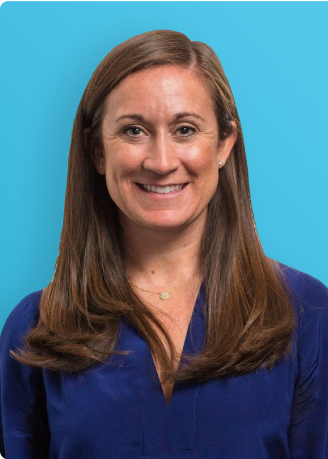
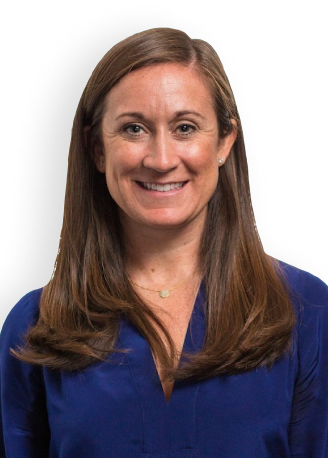
feat: add auto generated background photo

diff --git a/src/consts/team.ts b/src/consts/team.ts
@@ -1,10 +1,13 @@
+import enhanceTeamMembers from '@utils/enhanceTeamMembers';
+import colors from '@theme/colors';
+
 export const CATEGORIES = {
   FULL_TIME_MEMBERS: 'Full-time Members',
   BOARD_OF_DIRECTORS: 'Board of Directors',
   ADVISORS: 'Advisors',
 };
 
-export const MEMBERS = [
+export const MEMBERS = enhanceTeamMembers([
   {
     name: 'Mrinal',
     surname: 'Wadhwa',
@@ -13,6 +16,7 @@ export const MEMBERS = [
     country: 'US',
     photo: 'mrinal-wadhwa.png',
     description: 'Loves rock-n-roll and has a dog named Sargent Pepper',
+    bgColor: colors.extras.pictonBlue,
   },
   {
     name: 'Matthew',
@@ -22,6 +26,7 @@ export const MEMBERS = [
     country: 'US',
     photo: 'matthew-gregory.png',
     description: 'Started his career in professional sailing and has a passion for meteorology',
+    bgColor: colors.extras.iceCold,
   },
   {
     name: 'Sabeen',
@@ -178,4 +183,4 @@ export const MEMBERS = [
     photo: 'brian-mullen.png',
     description: 'CMO at InfluxData',
   },
-];
+]);

diff --git a/src/views/mission/components/TeamMemberCard.tsx b/src/views/mission/components/TeamMemberCard.tsx
@@ -15,6 +15,7 @@ type TeamMemberCardProps = {
   description: string;
   photo: string;
   country: string;
+  bgColor?: string,
 };
 
 const IMG_SIZES = {
@@ -29,6 +30,7 @@ const TeamMemberCard: FunctionComponent<TeamMemberCardProps> = ({
   description,
   photo,
   country,
+  bgColor,
 }) => {
   const placeholderImg = useMemo(
     () => getRandomImage([PlaceholderSilverImage, PlaceholderBlueImage, PlaceholderGreenImage]),
@@ -44,7 +46,12 @@ const TeamMemberCard: FunctionComponent<TeamMemberCardProps> = ({
       margin="0 auto"
       overflow="hidden"
     >
-      <Box w={{ base: '7.875rem', sm: IMG_SIZES.w }} h={IMG_SIZES.h} position="relative">
+      <Box
+        w={{ base: '7.875rem', sm: IMG_SIZES.w }}
+        h={IMG_SIZES.h}
+        position="relative"
+        backgroundColor={photo ? bgColor : 'transparent'}
+      >
         <ImageWithPlaceholder
           src={`/team/${photo}`}
           alt={`${name} photo`}

diff --git a/src/utils/enhanceTeamMembers.ts b/src/utils/enhanceTeamMembers.ts
@@ -1,0 +1,18 @@
+import { isString } from 'lodash';
+
+import colors from '@theme/colors';
+import { ITeamMember } from '@typings/TeamMember';
+
+import getRandomFromArray from './getRandomFromArray';
+
+const AUTOGENERATED_BG_COLORS = [
+  colors.extras.iceCold,
+  colors.extras.pictonBlue,
+]
+
+const enhanceTeamMembers = (teamMembers: ITeamMember[]): ITeamMember[] => teamMembers.map(member => ({
+    ...member,
+    bgColor: (member.bgColor && isString(member.bgColor)) ? member.bgColor : getRandomFromArray<string>(AUTOGENERATED_BG_COLORS)
+  }))
+
+export default enhanceTeamMembers;

diff --git a/src/typings/TeamMember.ts b/src/typings/TeamMember.ts
@@ -1,0 +1,10 @@
+export type ITeamMember = {
+  name: string,
+  surname: string,
+  position: string,
+  categories: string[],
+  country: string,
+  photo: string,
+  description: string,
+  bgColor?: string,
+};

diff --git a/src/theme/colors.ts b/src/theme/colors.ts
@@ -47,6 +47,10 @@ const colors = {
     800: '#490a02',
     900: '#1f0100',
   },
+  extras: {
+    pictonBlue: "#51C6E9",
+    iceCold: '#92F2DA'
+  }
 };
 
 export default colors;

diff --git a/src/utils/getRandomFromArray.ts b/src/utils/getRandomFromArray.ts
@@ -1,0 +1,4 @@
+const getRandomFromArray = <T>(colors: T[]): T =>
+  colors[Math.floor(Math.random() * colors.length)];
+
+export default getRandomFromArray;
